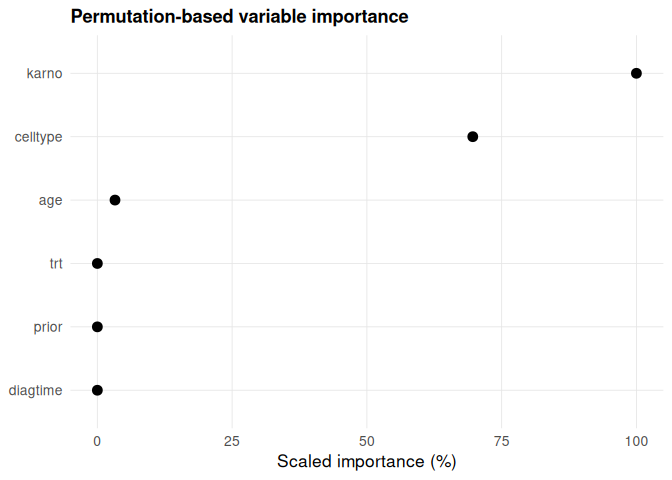
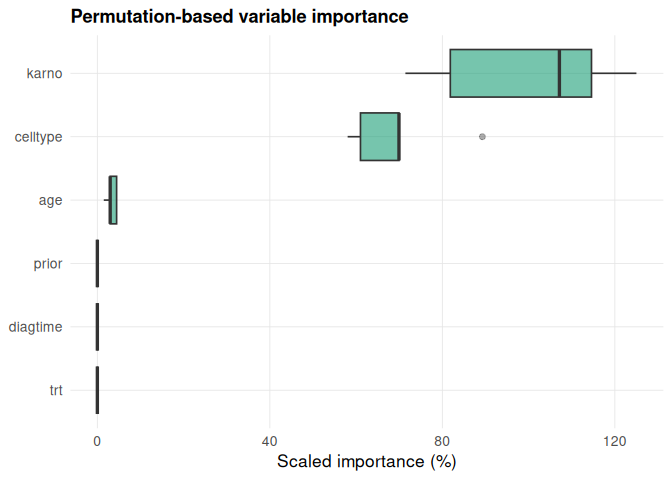
Re-knit README with the varimp boxplot and heatmap direction fixes

diff --git a/README.md b/README.md
@@ -478,12 +478,12 @@ varimp_res <- compute_varimp(
 varimp_res
 #>     feature importance importance_05 importance_95 scaled_importance
 #>      <char>      <num>         <num>         <num>             <num>
-#> 1:    karno     0.0672        0.1964        0.2296         100.00000
-#> 2: celltype     0.0468        0.1864        0.2044          69.64286
-#> 3:      age    -0.0022        0.1440        0.1458           3.27381
-#> 4:      trt     0.0000        0.1470        0.1470           0.00000
-#> 5: diagtime     0.0000        0.1470        0.1470           0.00000
-#> 6:    prior     0.0000        0.1470        0.1470           0.00000
+#> 1:    karno     0.0672        0.0494        0.0826         100.00000
+#> 2: celltype     0.0468        0.0394        0.0574          69.64286
+#> 3:      age    -0.0022       -0.0030       -0.0012           3.27381
+#> 4:      trt     0.0000        0.0000        0.0000           0.00000
+#> 5: diagtime     0.0000        0.0000        0.0000           0.00000
+#> 6:    prior     0.0000        0.0000        0.0000           0.00000
 plot_varimp(varimp_res)
 ```
 
